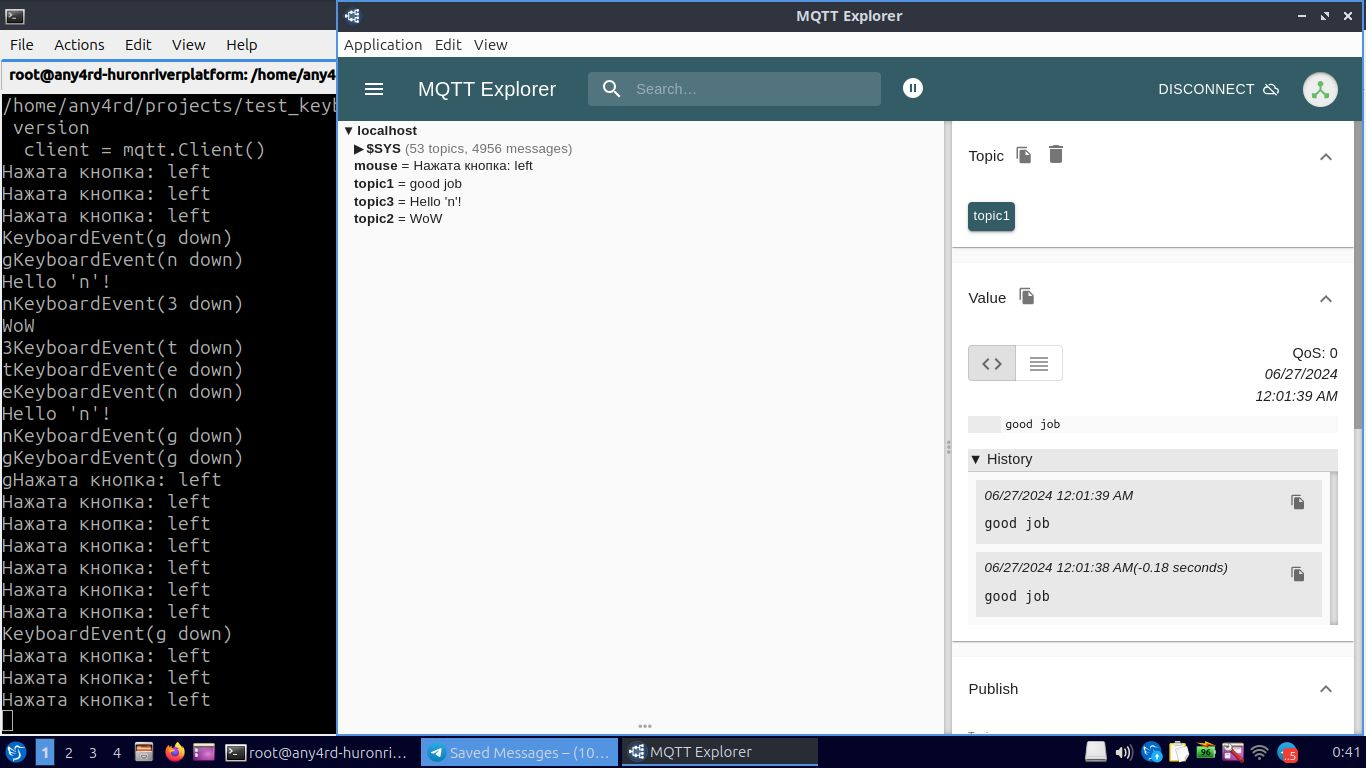
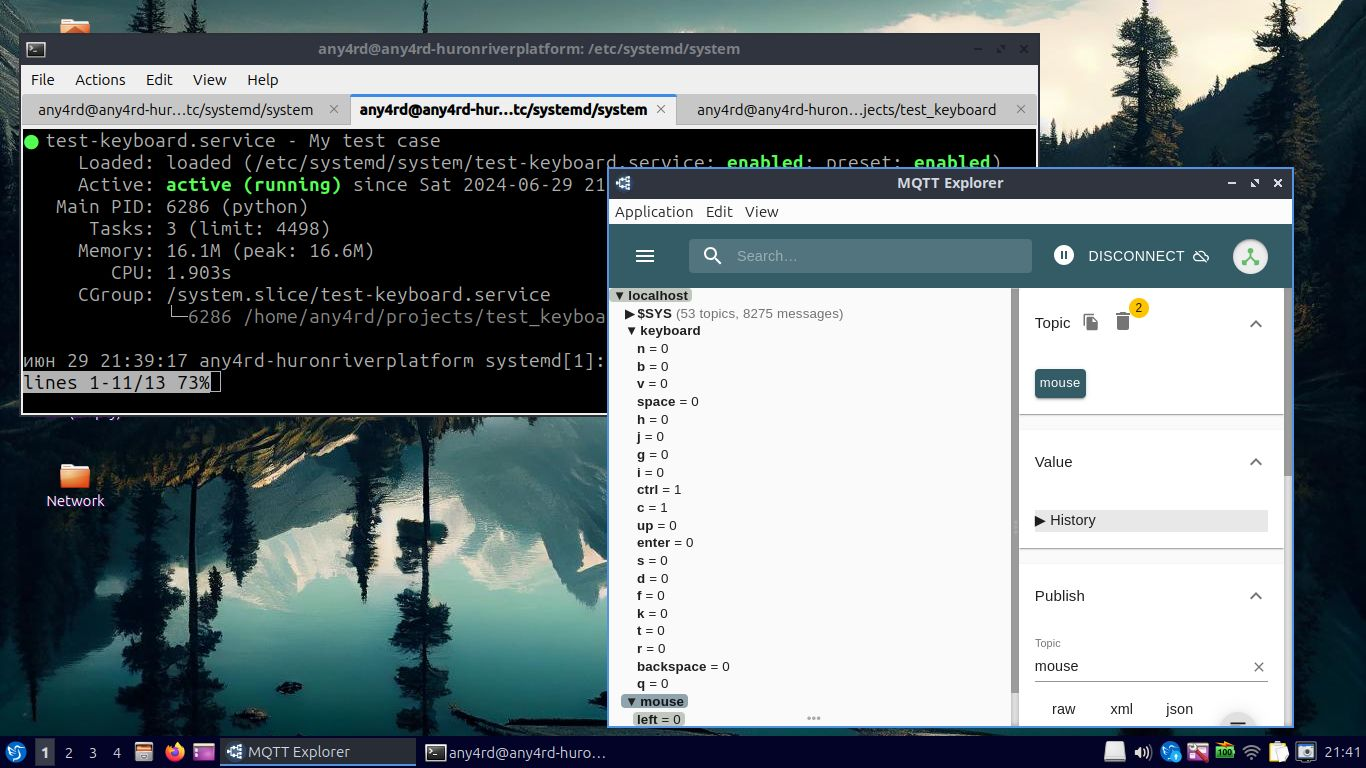
[*] оно работает ;) Точно работает!

diff --git a/main.py b/main.py
@@ -9,12 +9,16 @@ client.connect("localhost", 1883)
 
 
 # Отправка сообщения в топик
+def publish_message(topic, message):
+    client.publish(topic, message)
+
+
 def topic_keyboard(message):
-    client.publish("keyboard", message)
+    return f"keyboard/{message}"
 
 
 def topic_mouse(message):
-    client.publish("mouse", message)
+    return f"mouse/{message}"
 
 
 # Тут храним нажатые клавиши
@@ -39,11 +43,10 @@ def on_key_pressed(key):
         button_pressed = replace_russian_with_english(key.char)
     except AttributeError:
         button_pressed = str(key).split(".")[1]
-    if button_pressed not in pressed_keys or not pressed_keys[button_pressed]:
-        message = f"{button_pressed} = 1"
-        topic_keyboard(message)
-        pressed_keys[button_pressed] = True
-
+    
+    topic = topic_keyboard(button_pressed)
+    message = "1"
+    publish_message(topic, message)
 
 # Функция для обработки событий клавиатуры (при отпущенной клавише)
 def on_key_released(key):
@@ -51,21 +54,24 @@ def on_key_released(key):
         button_released = replace_russian_with_english(key.char)
     except AttributeError:
         button_released = str(key).split(".")[1]
-    message = f"{button_released} = 0"
-    topic_keyboard(message)
-    pressed_keys[button_released] = False
+
+    topic = topic_keyboard(button_released)
+    message = "0"
+    publish_message(topic, message)
 
 
 # Функция для обработки событий мыши
 def on_mouse_event(x, y, button, pressed):
     if pressed:
         button_pressed = button.name
-        message = f"{button_pressed} = 1"
-        topic_mouse(message)
+        topic = topic_mouse(button_pressed)
+        message = "1"
+        publish_message(topic, message)
     else:
         button_released = button.name
-        message = f"{button_released} = 0"
-        topic_mouse(message)
+        topic = topic_mouse(button_released)
+        message = "0"
+        publish_message(topic, message)
 
 
 def stop_script():
